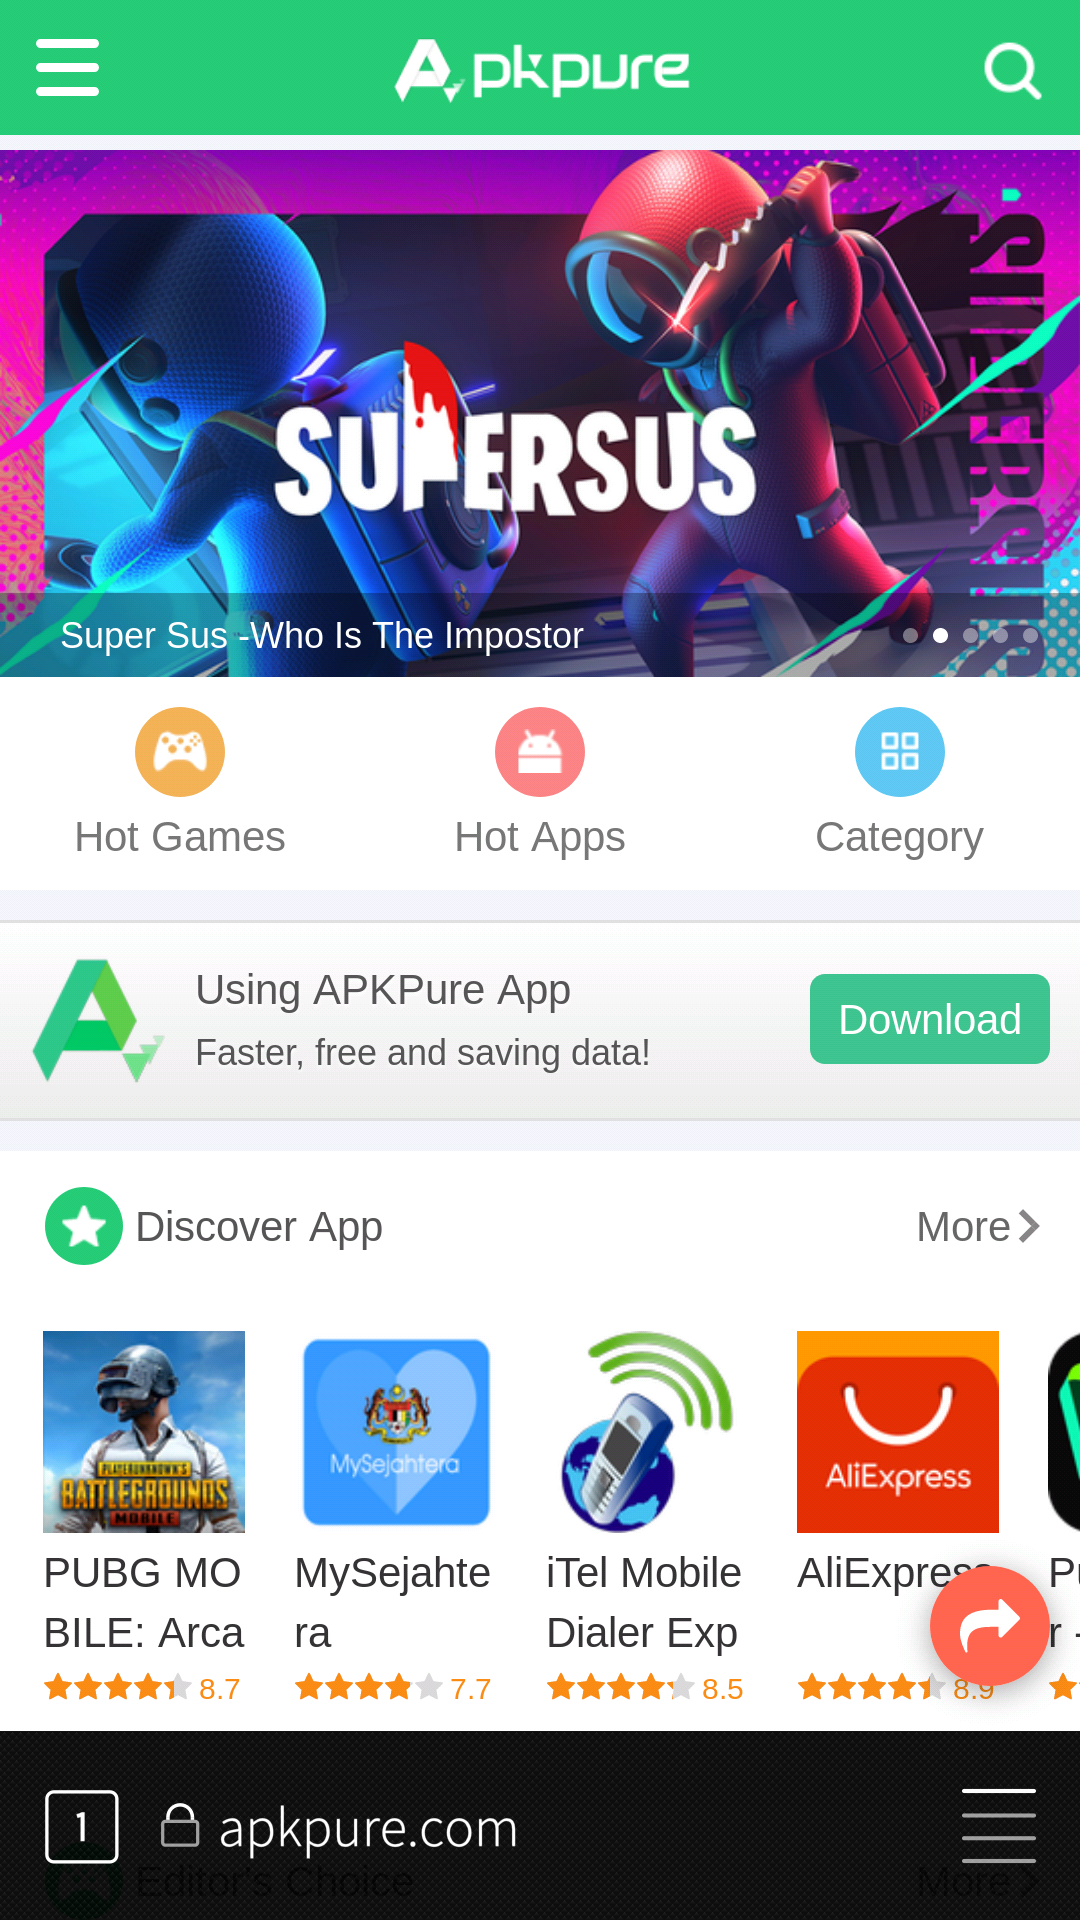
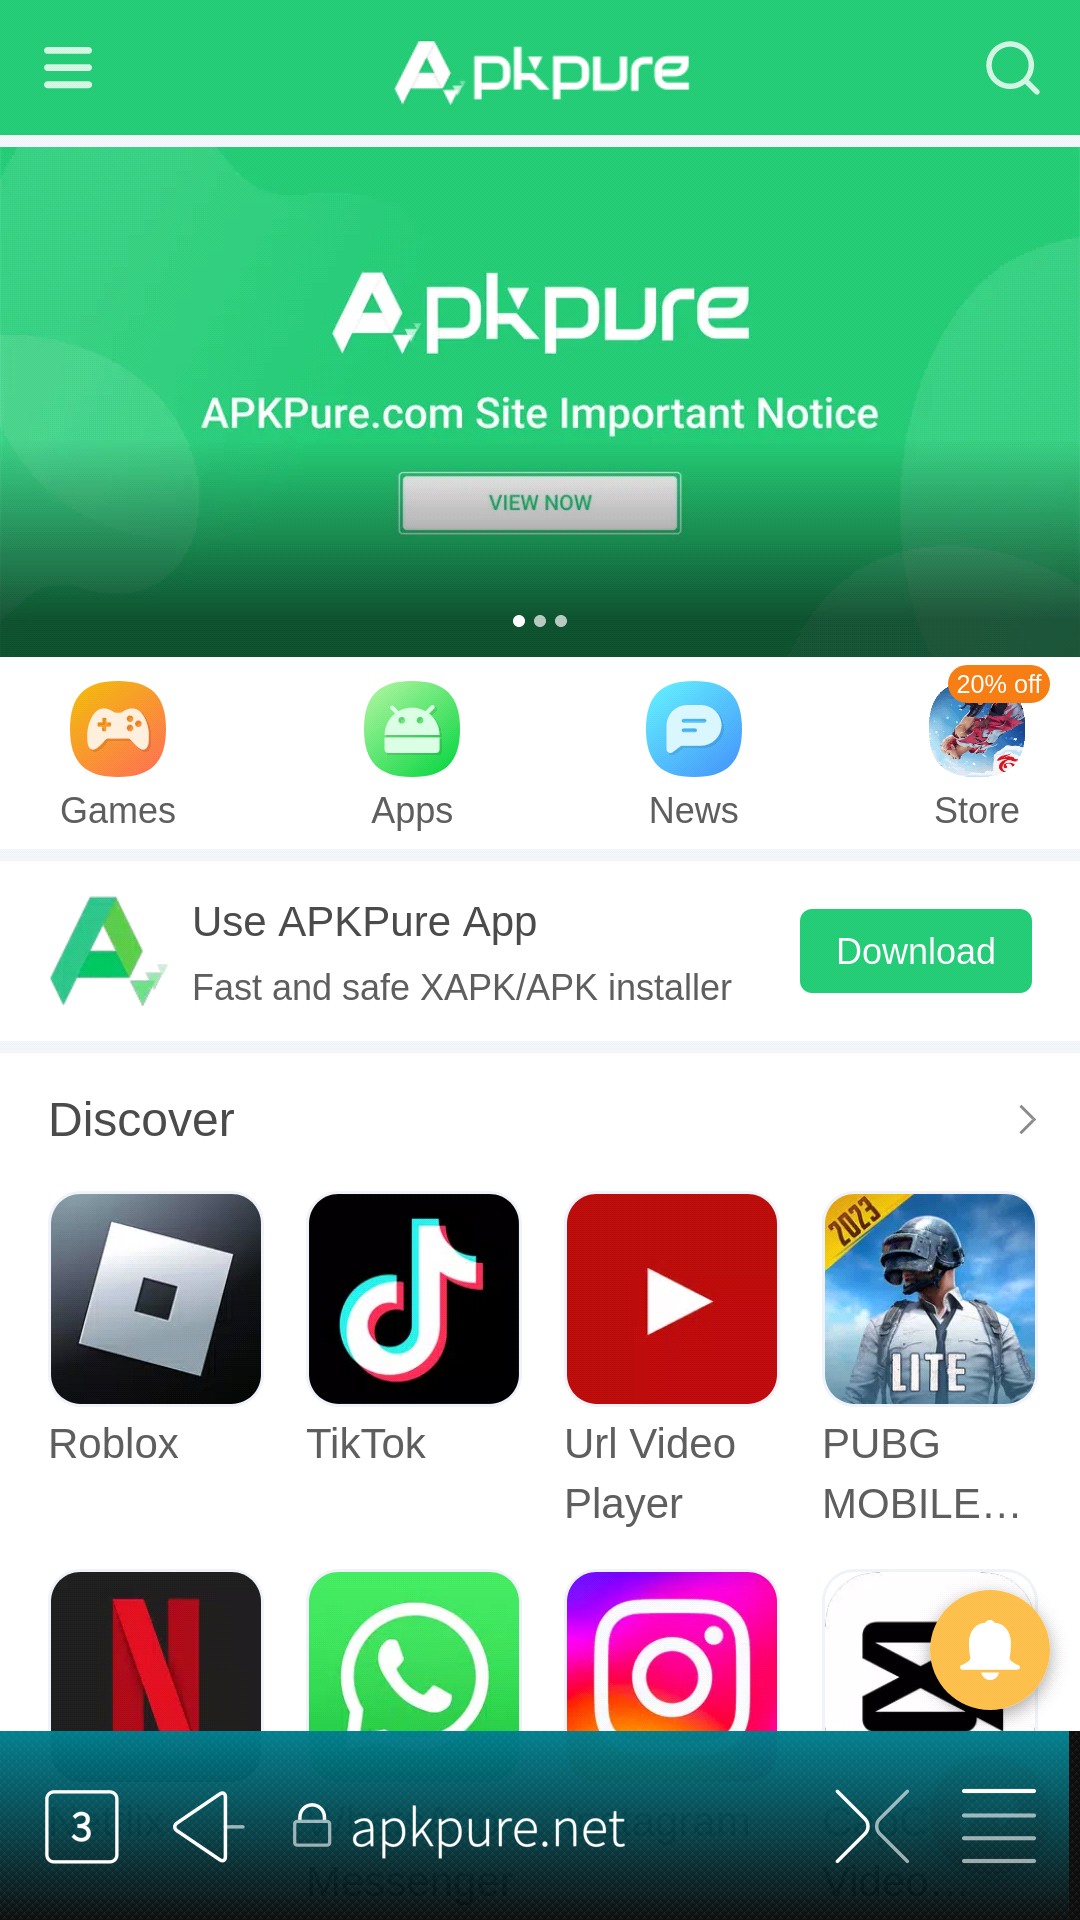
APKPure document updated

diff --git a/Support/Help_Articles/Android_App_Support/APKPure/README.md b/Support/Help_Articles/Android_App_Support/APKPure/README.md
@@ -11,136 +11,154 @@ APKPure store contains a good choice of popular Android apps. It is easy to inst
 
 # Downloading the APKPure apk to your Sailfish device
 1. Open the Sailfish Browser app.
-2. Type and open page **m.apkpure.com**
-3. Tap the green-and-white "Download" on that page, to the right of "Use APKPure App" (see the picture below on the left). Avoid the advertisements popping up.
-4. Long-press another green-and-white "Download" - it has the version number and size now. Select "Open link in new tab". The download of the APKPure apk file (installation file) begins.
-5. Sailfish will show a download banner at the top of the display. Please wait until the download is complete.
+2. Type and open page **apkpure.net**
+3. Tap the green-and-white "Download" on that page, to the right of "Use APKPure App" (**[Pic 1](#pic_1))**. 
+4. Avoid the advertisements. DO NOT tap the START button of **[Pic 2](#pic_2)**. Scroll down a couple of pages until you see the view of **[Pic 3](#pic_3)**. The green button with the white text "Download APK" is the one we are looking for.
+5. Tap the "Download APK" button. The download of the APKPure apk file (installation file) begins. The browser may ask you to select the folder into which to download the file. "Home > Downloads" is a good choice.
+6. Sailfish will show a download banner at the top of the display (**[Pic 4](#pic_4)**). Please wait until the download is complete.
 
 <div class="flex-images" markdown="1">
 
-* <a href="APKpure01.png"><img src="APKpure01.png" alt="APKPure_download"></a>
+* <a href="APKpure01.png" name="pic_1"><img src="APKpure01.png" alt="APKpure home view"></a>
   <span class="md_figcaption">
+  Pic 1: Home view of APKpure
   </span>
-* <a href="APKpure02.png"><img src="APKpure02.png" alt="APKPure_download"></a>
+* <a href="APKpure02.png" name="pic_2"><img src="APKpure02.png" alt="Finding download button"></a>
   <span class="md_figcaption">
+  Pic 2: Finding the correct download button
   </span>
-  Screen captures from searching and installing whatsapp 
 </div>
+
+ ---
 
 <div class="flex-images" markdown="1">
 
-* <a href="APKpure03.png" class="narrow-image"><img src="APKpure03.png" alt="APKPure_download"></a>
+* <a href="APKpure03.png" name="pic_3"><img src="APKpure03.png" alt="Download APK button"></a>
   <span class="md_figcaption">
+  Pic 3: Button to download the APK (green)
+  </span>
+* <a href="APKpure04.png" name="pic_4"><img src="APKpure04.png" alt="Download in progress"></a>
+  <span class="md_figcaption">
+  Pic 4: Download in progress
   </span>
 </div>
+
 
 # Installing the APKPure app to your Sailfish device
 Let's install APKPure now.
 
-1. Tap the icon at the bottom right corner of the Sailfish Browser window (it has 4 short lines stacked). This opens a menu, scroll the menu untill you see the item "Downloads" at the 2nd last position in that menu. Tap Downloads. This opens the Transfers page of Sailfish OS.
-* Alternatively, instead of using the browser, open the Settings app and go directly to the menu page "Settings > Transfers".
+1. Tap the icon at the bottom right corner of the Sailfish Browser window (it has 4 short lines stacked). This opens a menu, scroll the menu until you see the item "Downloads" at the 2nd last position in that menu (**[Pic 5](#pic_5)**). Tap Downloads. This opens the Transfers page of Sailfish OS (**[Pic 6](#pic_6)**)
+* Alternatively, instead of using the browser, open the Settings app and go directly to the "Settings > Transfers" menu page.
 2. The downloaded installation file **"APKPure_v.*_apkpure.com.apk"** appears on the top of the page, tap it.
-3. Sailfish starts installing the APKPure application. Once it is installed (after 5-15 seconds), you will see an information banner on the top of the screen.
+3. Tap the Install button of **[Pic 7](#pic_7)**.
+4. Sailfish starts installing the APKPure application. Once it is installed (after 5-15 seconds), you will see an information banner on the top of the screen (**[Pic 8](#pic_8)**).
 
-Sailfish OS will then install the Android app "APKPure" to your device.
-
-<div class="flex-images" markdown="1">
-
-* <a href="APKpure05.png"><img src="APKpure05.png" alt="APKPure_Install"></a>
-  <span class="md_figcaption">
-  </span>
-* <a href="APKpure06.png"><img src="APKpure06.png" alt="APKPure_Install"></a>
-  <span class="md_figcaption">
-  </span>
-  Screen captures from searching and installing whatsapp 
-</div>
+Sailfish OS will install the Android app "APKPure" to your device.
 
 <div class="flex-images" markdown="1">
 
-* <a href="APKpure07.png" class="narrow-image"><img src="APKpure07.png" alt="APKPure_Install"></a>
+* <a href="APKpure05.png" name="pic_5"><img src="APKpure05.png" alt="Downloads in the browser menu"></a>
   <span class="md_figcaption">
+  Pic 5: Downloads in the browser menu
+  </span>
+* <a href="APKpure06.png" name="pic_6"><img src="APKpure06.png" alt="Settings > Transfers"></a>
+  <span class="md_figcaption">
+  Pic 6: Settings > Transfers (pointing to Downloads)
   </span>
 </div>
+
+---
+---
+
+<div class="flex-images" markdown="1">
+
+* <a href="APKpure07.png" name="pic_7"><img src="APKpure07.png" alt="Start installing the APK"></a>
+  <span class="md_figcaption">
+  Pic 7: Start installing the APK
+  </span>
+* <a href="APKpure08.png" name="pic_8"><img src="APKpure08.png" alt="Installation completed"></a>
+  <span class="md_figcaption">
+  Pic 8: Installation completed
+  </span>
+</div>
+
 
 The APKPure app appears as the last item of the app grid in the picture below.
 
 <div class="flex-images" markdown="1">
 
-* <a href="APKpure10.png" class="narrow-image"><img src="APKpure10.png" alt="APKPure_Install"></a>
+* <a href="APKpure10.png" name="pic_10" class="narrow-image"><img src="APKpure10.png" alt="App grid with APK Pure"></a>
   <span class="md_figcaption">
+  Pic 10: App grid with APKPure
   </span>
 </div>
 
 # Installing Android apps from the APKPure store to your Sailfish device
 1. Once the installation of the APKPure app is completed, open the app.
-2. Tap in the search box at the top of the app window. Type the beginning of your favourite Android app name, e.g. "Insta". APKPure will show 3 options below. Tap on line "Apps: Insta".  
-Make sure you have selected the subpage "Apps" at the top of the display.
-3. Tap "Install" next to your app (e.g. Instagram) - see the picture below in the middle. Downloading will start.
-4. Tap "INSTALL" in the dialogue shown in the right-most picture below to let APKPure install the app.
+2. Tap in the search box at the top of the app window. Type the beginning of your favourite Android app name, e.g. "Instagr"(for Instagram). APKPure will show some matches (see **[Pic 31](#pic_31)**). Tap the Install button to the right of "Instagram"
+3. Downloading will start (**[Pic 32](#pic_32)**).
+4. Tap "INSTALL" in the dialogue shown in **[Pic 33](#pic_33)** to let APKPure install the app.
 
-Note that in the case of your 1st app from APK Pure, you will need to give some more permissions - see [this chapter](#allowing-apkpure-to-install-apps) below.
-
-<div class="flex-images" markdown="1">
-
-* <a href="APKpure31.png"><img src="APKpure31.png" alt="App_Install"></a>
-  <span class="md_figcaption">
-  </span>
-* <a href="APKpure32.png"><img src="APKpure32.png" alt="App_Install"></a>
-  <span class="md_figcaption">
-  </span>
-  Screen captures from searching and installing whatsapp 
-</div>
+NOTE: if this is your 1st app from APK Pure, instead of Pic 33, you will see **[Pic 41](#pic_41)** first as you will need to give some more permissions - see [the last chapter](#allowing-apkpure-to-install-apps) of this document. After this, you will be guided back to step 4 above.
 
 <div class="flex-images" markdown="1">
 
-* <a href="APKpure25.png" class="narrow-image"><img src="APKpure25.png" alt="App_Install"></a>
+* <a href="APKpure31.png"  name="pic_31"><img src="APKpure31.png" alt="Searching for an app to install"></a>
   <span class="md_figcaption">
+  Pic 31: Searching for an app to install
+  </span>
+* <a href="APKpure32.png" name="pic_32"><img src="APKpure32.png" alt="App being downloaded"></a>
+  <span class="md_figcaption">
+  Pic 32: App being downloaded
   </span>
 </div>
 
-Once the installation is ready, you will see this:
+---
+---
 
 <div class="flex-images" markdown="1">
 
-* <a href="APKpure18.png" class="narrow-image"><img src="APKpure18.png" alt="App_Install"></a>
+* <a href="APKpure31.png"  name="pic_33"><img src="APKpure33.png" alt="Ready to install the app"></a>
   <span class="md_figcaption">
+  Pic 33: Ready to install the app
+  </span>
+* <a href="APKpure32.png" name="pic_34"><img src="APKpure34.png" alt="App successfully installed"></a>
+  <span class="md_figcaption">
+  Pic 34: App successfully installed. 
   </span>
 </div>
+
+
 
 # Allowing APKPure to install apps
-If you are installing the 1st app from APK Pure to this phone, APK Pure will request permission. It will show you two dialogues.
+If you install the 1st app from APK Pure to this phone, APK Pure will request permission. It will show you two dialogues.
 
 The first one, related to phone calls, you can deny but for the latter one, "Allow APKPure to access photos, media and files on your device", you should allow [*] or else the app cannot install anything on your phone.
 
 [*] Alternatively, you can allow storage access for the app by doing the following:
 
-* Open Settings > Apps > APKPure
+* Open "Settings > Apps > APKPure"
 * Tap "Open Android settings"
 * Tap "Permissions"
-* In the list of denied resources, tap "Storage" followed by "Allow"
+* In the list of denied resources, tap "Files and media" followed by "Allow management of all files".
 * Close Settings
 * Open APKPure app again. Installing Android apps should be possible now.
 
-Even after allowing the storage access (as explained above), the APKPure app will request one more permission ( see the left-most picture below) before installing the 1st app to your phone: "Allow from this source". This means that you will need to grant permission for installing Android apps from the APKPure app store.
+Even after allowing the storage access (as explained above), the APKPure app will request one more permission (see **[Pic 41](#pic_41**) before installing the 1st app to your phone: "Allow from this source". This means that you will need to grant permission to install Android apps from the APKPure app store. Furthermore, you will need to enable "Allow untrusted software" in "Settings > Untrusted software".
 
-To give permission, move the slider to the right so that it turns green - see the left-most picture below. Once done, the right-most picture will appear. Trigger the installation of your app by tapping "INSTALL".
-
-<div class="flex-images" markdown="1">
-
-* <a href="APKpure23.png"><img src="APKpure23.png" alt="APKpure_permissions"></a>
-  <span class="md_figcaption">
-  </span>
-* <a href="APKpure16.png"><img src="APKpure16.png" alt="APKpure_permissions"></a>
-  <span class="md_figcaption">
-  </span>
-  Screen captures from searching and installing whatsapp 
-</div>
+To give permission, move the slider to the right so that it turns green - see **[Pic 41](#pic_41)** and **[Pic 42](#pic_42)**. Next, tap the back arrow at the top left corner. If the app is shown minimised, tap to expand it. Wait for a few seconds and the view of **[Pic 33](#pic_33)** should appear. Trigger the installation of your app by tapping "INSTALL".
 
 <div class="flex-images" markdown="1">
 
-* <a href="APKpure25.png" class="narrow-image"><img src="APKpure25.png" alt="APKpure_permissions"></a>
+* <a href="APKpure41.png" name="pic_41"><img src="APKpure41.png" alt="Permissions required"></a>
   <span class="md_figcaption">
+  Pic 41: Permission to install required
+  </span>
+* <a href="APKpure42.png" name="pic_42"><img src="APKpure42.png" alt="Permissions granted"></a>
+  <span class="md_figcaption">
+  Pic 42: Permission to install granted
   </span>
 </div>
 
 When you install your subsequent Android apps from APKPure, it will go as explained in [this chapter](#installing-android-apps-from-the-apkpure-store-to-your-sailfish-device). There is no need to do the actions of [this last chapter](#allowing-apkpure-to-install-apps) anymore.
+
